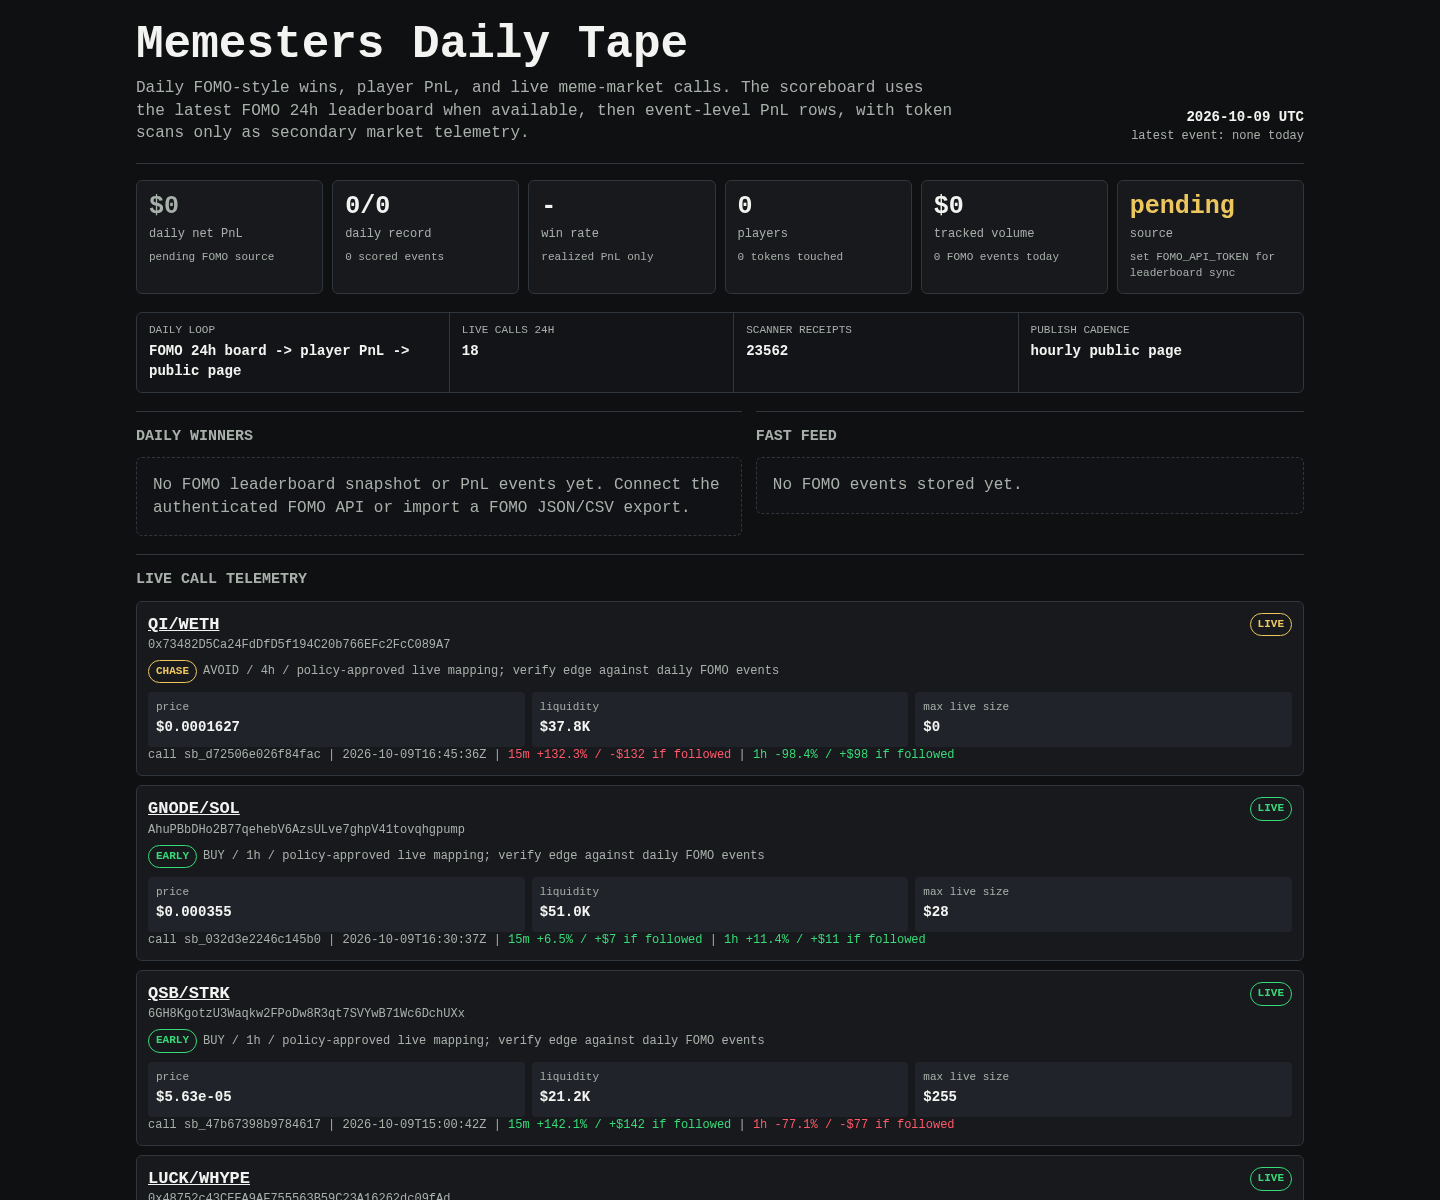
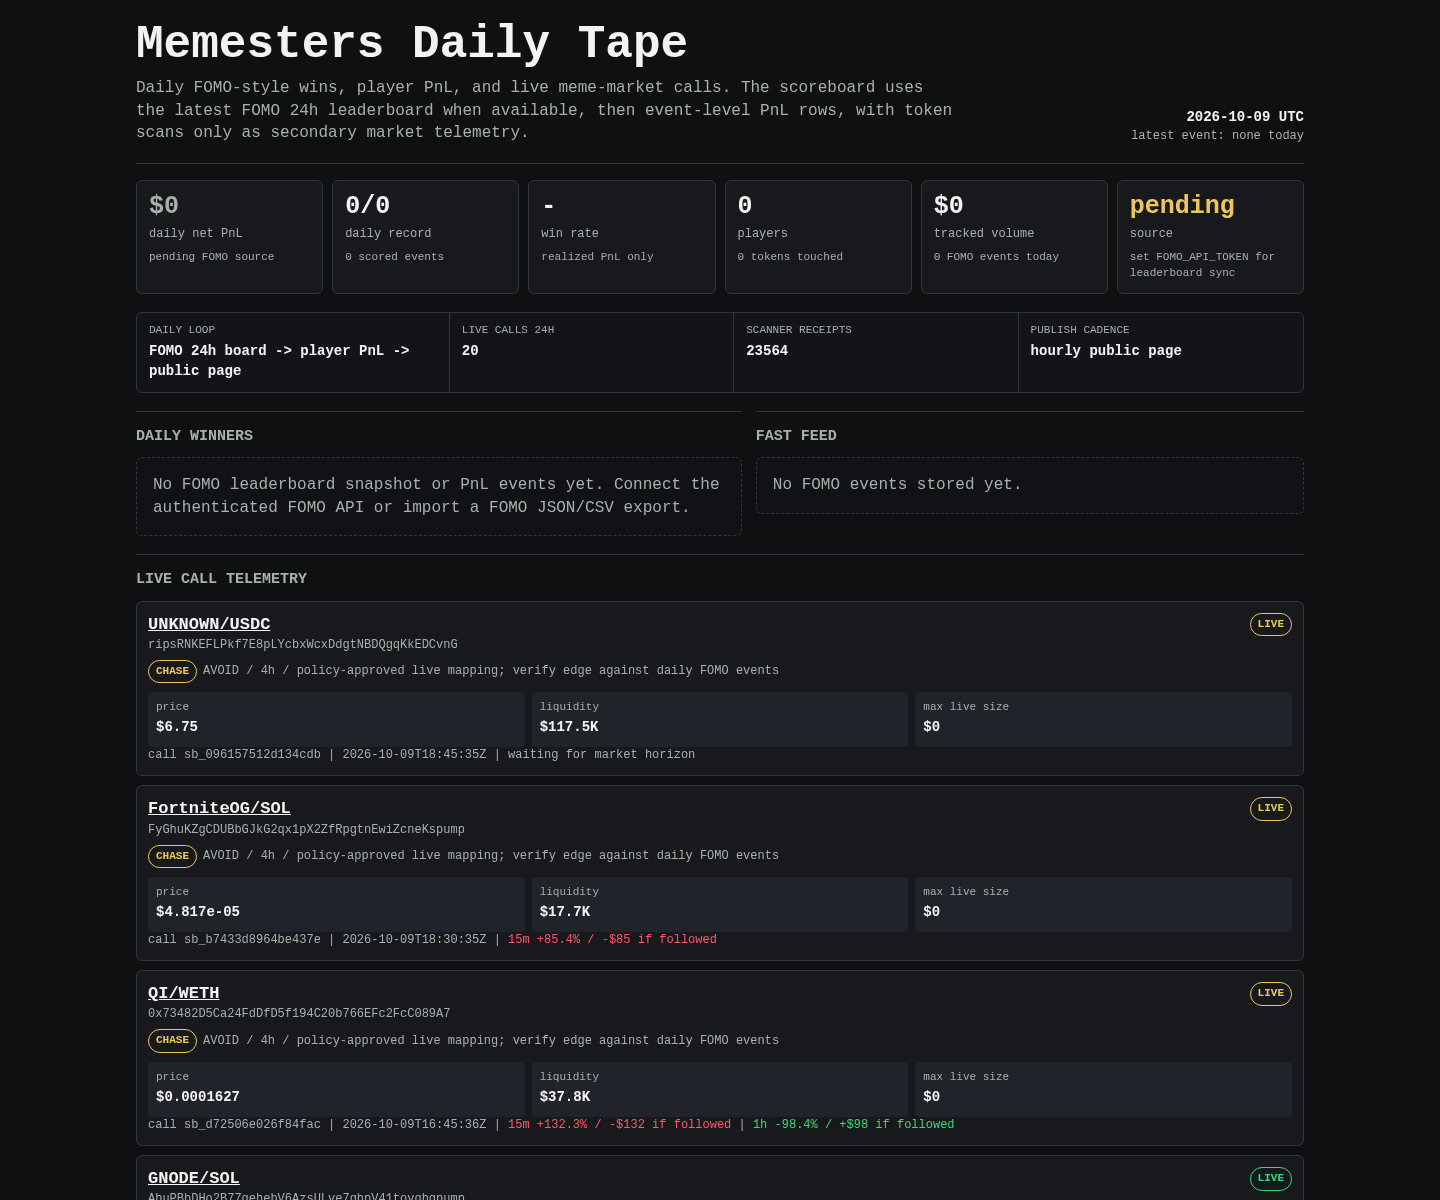
Update Memesters scoreboard

diff --git a/memesters/index.html b/memesters/index.html
@@ -149,8 +149,8 @@
 
     <div class="rail" aria-label="live operating loop">
       <div><span>daily loop</span><b>FOMO 24h board -> player PnL -> public page</b></div>
-      <div><span>live calls 24h</span><b>18</b></div>
-      <div><span>scanner receipts</span><b>23562</b></div>
+      <div><span>live calls 24h</span><b>20</b></div>
+      <div><span>scanner receipts</span><b>23564</b></div>
       <div><span>publish cadence</span><b>hourly public page</b></div>
     </div>
 
@@ -168,6 +168,48 @@
     <section style="margin-top: 18px;">
       <h2>Live Call Telemetry</h2>
       
+    <article class="receipt">
+      <div class="receipt-head">
+        <div>
+          <div class="pair"><a href="https://dexscreener.com/solana/arzhzeu1etsaart1ix9t5zxnwyqmrhayrvguqxumhcjh">UNKNOWN/USDC</a></div>
+          <div class="addr">ripsRNKEFLPkf7E8pLYcbxWcxDdgtNBDQgqKkEDCvnG</div>
+          <div class="addr policy-line">
+            <span class="badge chase">CHASE</span>
+            <span>AVOID / 4h / policy-approved live mapping; verify edge against daily FOMO events</span>
+          </div>
+        </div>
+        <span class="badge chase">LIVE</span>
+      </div>
+      <div class="receipt-grid">
+        <div class="kv"><span>price</span><b>$6.75</b></div>
+        <div class="kv"><span>liquidity</span><b>$117.5K</b></div>
+        <div class="kv"><span>max live size</span><b>$0</b></div>
+      </div>
+      <div class="outcomes">call sb_096157512d134cdb | 2026-10-09T18:45:35Z | waiting for market horizon</div>
+    </article>
+    
+
+    <article class="receipt">
+      <div class="receipt-head">
+        <div>
+          <div class="pair"><a href="https://dexscreener.com/solana/hyqrvmhalnwclc7d92y5wdfibvzzwrw31fi8y9pwxeou">FortniteOG/SOL</a></div>
+          <div class="addr">FyGhuKZgCDUBbGJkG2qx1pX2ZfRpgtnEwiZcneKspump</div>
+          <div class="addr policy-line">
+            <span class="badge chase">CHASE</span>
+            <span>AVOID / 4h / policy-approved live mapping; verify edge against daily FOMO events</span>
+          </div>
+        </div>
+        <span class="badge chase">LIVE</span>
+      </div>
+      <div class="receipt-grid">
+        <div class="kv"><span>price</span><b>$4.817e-05</b></div>
+        <div class="kv"><span>liquidity</span><b>$17.7K</b></div>
+        <div class="kv"><span>max live size</span><b>$0</b></div>
+      </div>
+      <div class="outcomes">call sb_b7433d8964be437e | 2026-10-09T18:30:35Z | <span class="negative">15m +85.4% / -$85 if followed</span></div>
+    </article>
+    
+
     <article class="receipt">
       <div class="receipt-head">
         <div>
@@ -248,7 +290,7 @@
         <div class="kv"><span>liquidity</span><b>$5.4K</b></div>
         <div class="kv"><span>max live size</span><b>$26</b></div>
       </div>
-      <div class="outcomes">call sb_30342f59cc7d468f | 2026-10-09T14:45:35Z | <span class="positive">15m +6.8% / +$7 if followed</span> | <span class="positive">1h +6.8% / +$7 if followed</span></div>
+      <div class="outcomes">call sb_30342f59cc7d468f | 2026-10-09T14:45:35Z | <span class="positive">15m +6.8% / +$7 if followed</span> | <span class="positive">1h +6.8% / +$7 if followed</span> | <span class="positive">4h +6.1% / +$6 if followed</span></div>
     </article>
     
 
@@ -333,48 +375,6 @@
         <div class="kv"><span>max live size</span><b>$147</b></div>
       </div>
       <div class="outcomes">call sb_e0795855fe3d4f55 | 2026-10-09T08:15:34Z | <span class="negative">15m -41.1% / -$41 if followed</span> | <span class="negative">1h -47.8% / -$48 if followed</span> | <span class="negative">4h -46.7% / -$47 if followed</span></div>
-    </article>
-    
-
-    <article class="receipt">
-      <div class="receipt-head">
-        <div>
-          <div class="pair"><a href="https://dexscreener.com/solana/7bubz1dr8ios1dfwyxgutq8w8mvbe2ralattqjksbj6r">OP_INU/SOL</a></div>
-          <div class="addr">DD3t8GP5F6f7WtcP2sfNy9TY7JGxfb9pSGCHafWupump</div>
-          <div class="addr policy-line">
-            <span class="badge chase">CHASE</span>
-            <span>AVOID / 4h / policy-approved live mapping; verify edge against daily FOMO events</span>
-          </div>
-        </div>
-        <span class="badge chase">LIVE</span>
-      </div>
-      <div class="receipt-grid">
-        <div class="kv"><span>price</span><b>$2.197e-06</b></div>
-        <div class="kv"><span>liquidity</span><b>$2.3K</b></div>
-        <div class="kv"><span>max live size</span><b>$0</b></div>
-      </div>
-      <div class="outcomes">call sb_cf939770a6654240 | 2026-10-09T06:30:35Z | <span class="positive">15m +0.0% / $0 if followed</span> | <span class="positive">1h +0.0% / $0 if followed</span> | <span class="positive">4h -1.0% / +$1 if followed</span></div>
-    </article>
-    
-
-    <article class="receipt">
-      <div class="receipt-head">
-        <div>
-          <div class="pair"><a href="https://dexscreener.com/ethereum/0x807d8084fd2a0e204590514286454dacce902b65">ASENSE/WETH</a></div>
-          <div class="addr">0xC552B5706bAa14c1f0104e95380ea3DC102a481f</div>
-          <div class="addr policy-line">
-            <span class="badge early">EARLY</span>
-            <span>BUY / 1h / policy-approved live mapping; verify edge against daily FOMO events</span>
-          </div>
-        </div>
-        <span class="badge early">LIVE</span>
-      </div>
-      <div class="receipt-grid">
-        <div class="kv"><span>price</span><b>$0.001656</b></div>
-        <div class="kv"><span>liquidity</span><b>$126.4K</b></div>
-        <div class="kv"><span>max live size</span><b>$1.5K</b></div>
-      </div>
-      <div class="outcomes">call sb_542a431fe5f4440a | 2026-10-09T06:30:34Z | <span class="negative">15m -11.2% / -$11 if followed</span> | <span class="positive">1h +0.2% / +$0 if followed</span> | <span class="negative">4h -32.5% / -$32 if followed</span></div>
     </article>
     
     </section>
